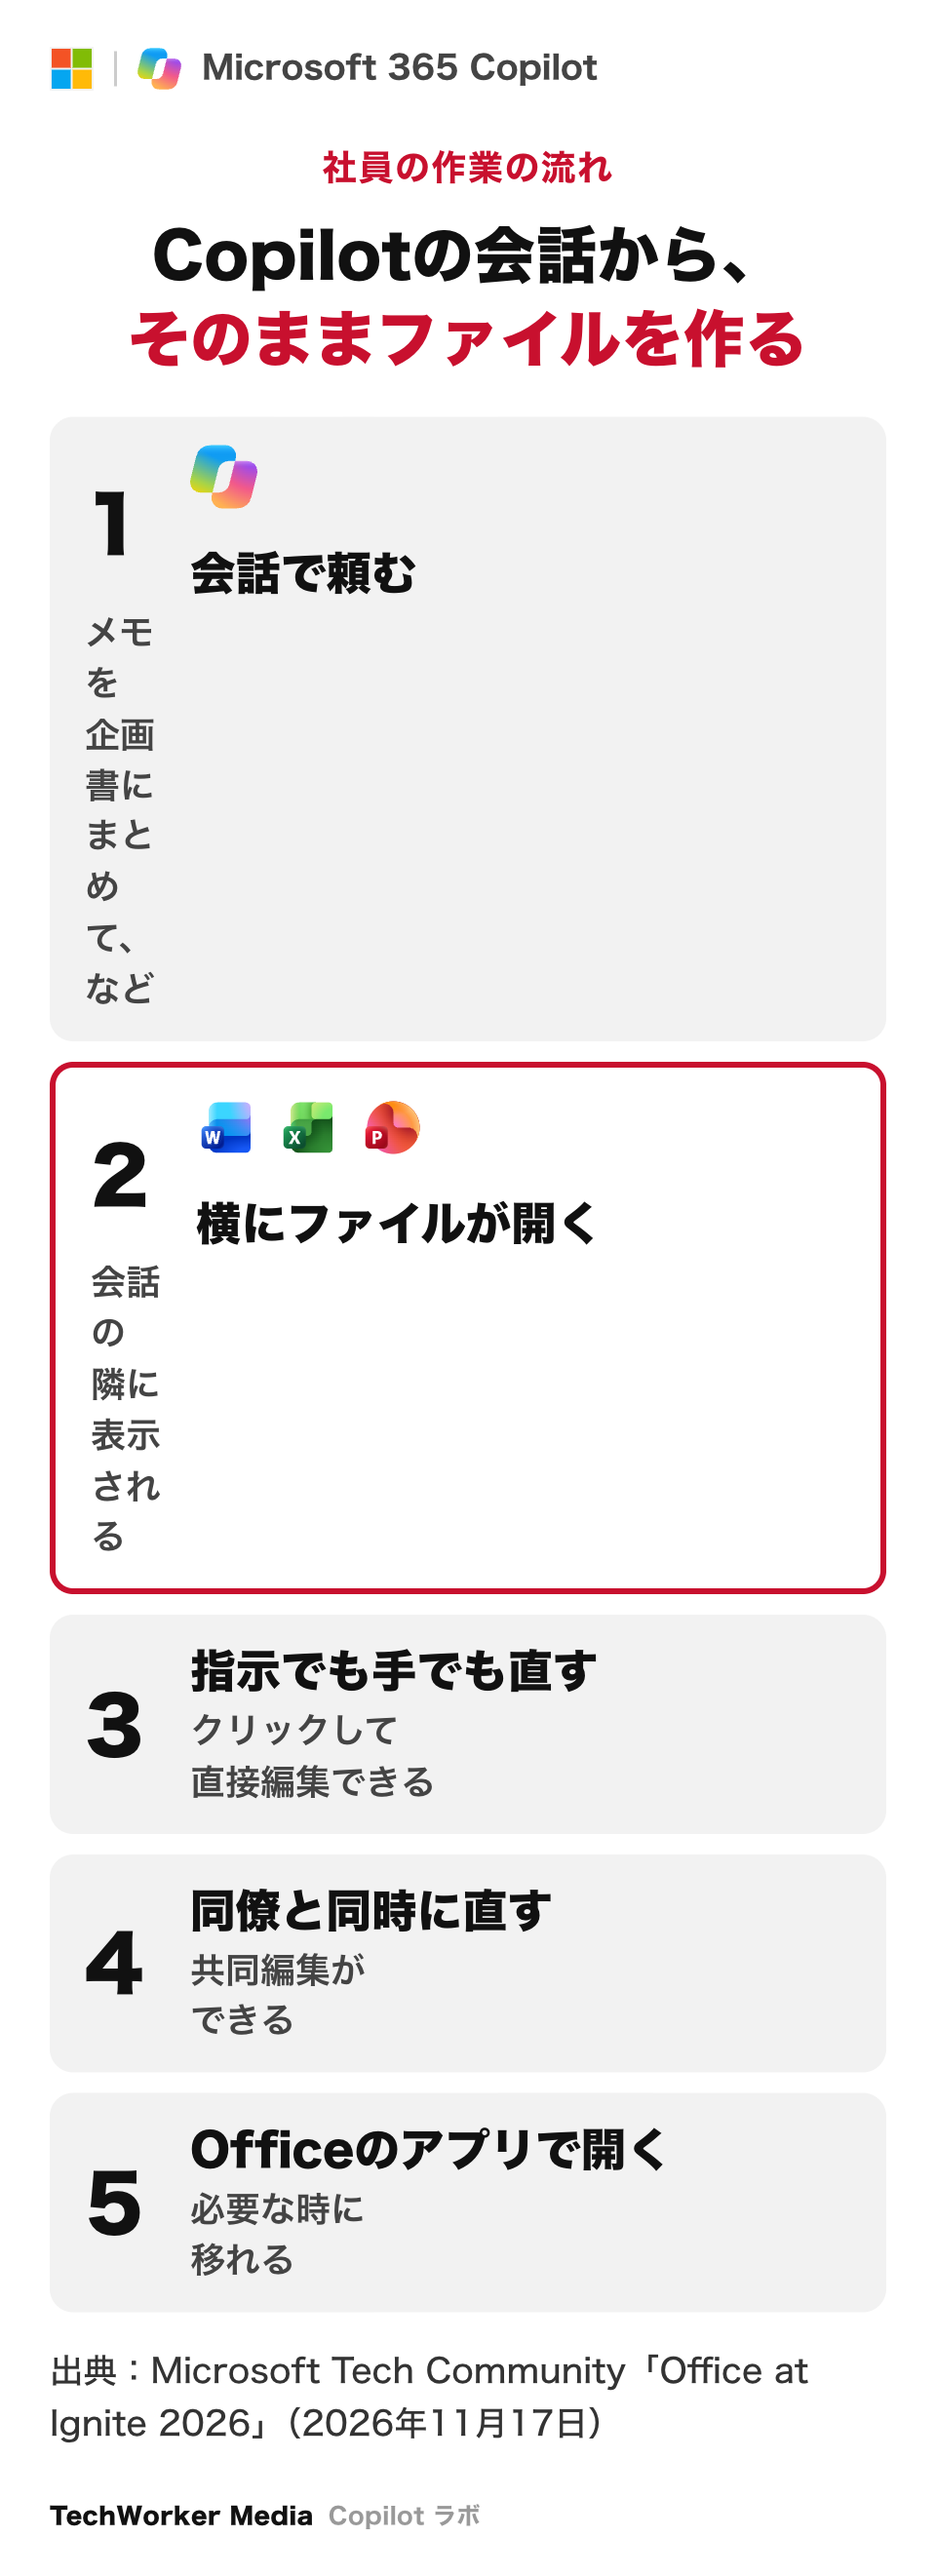
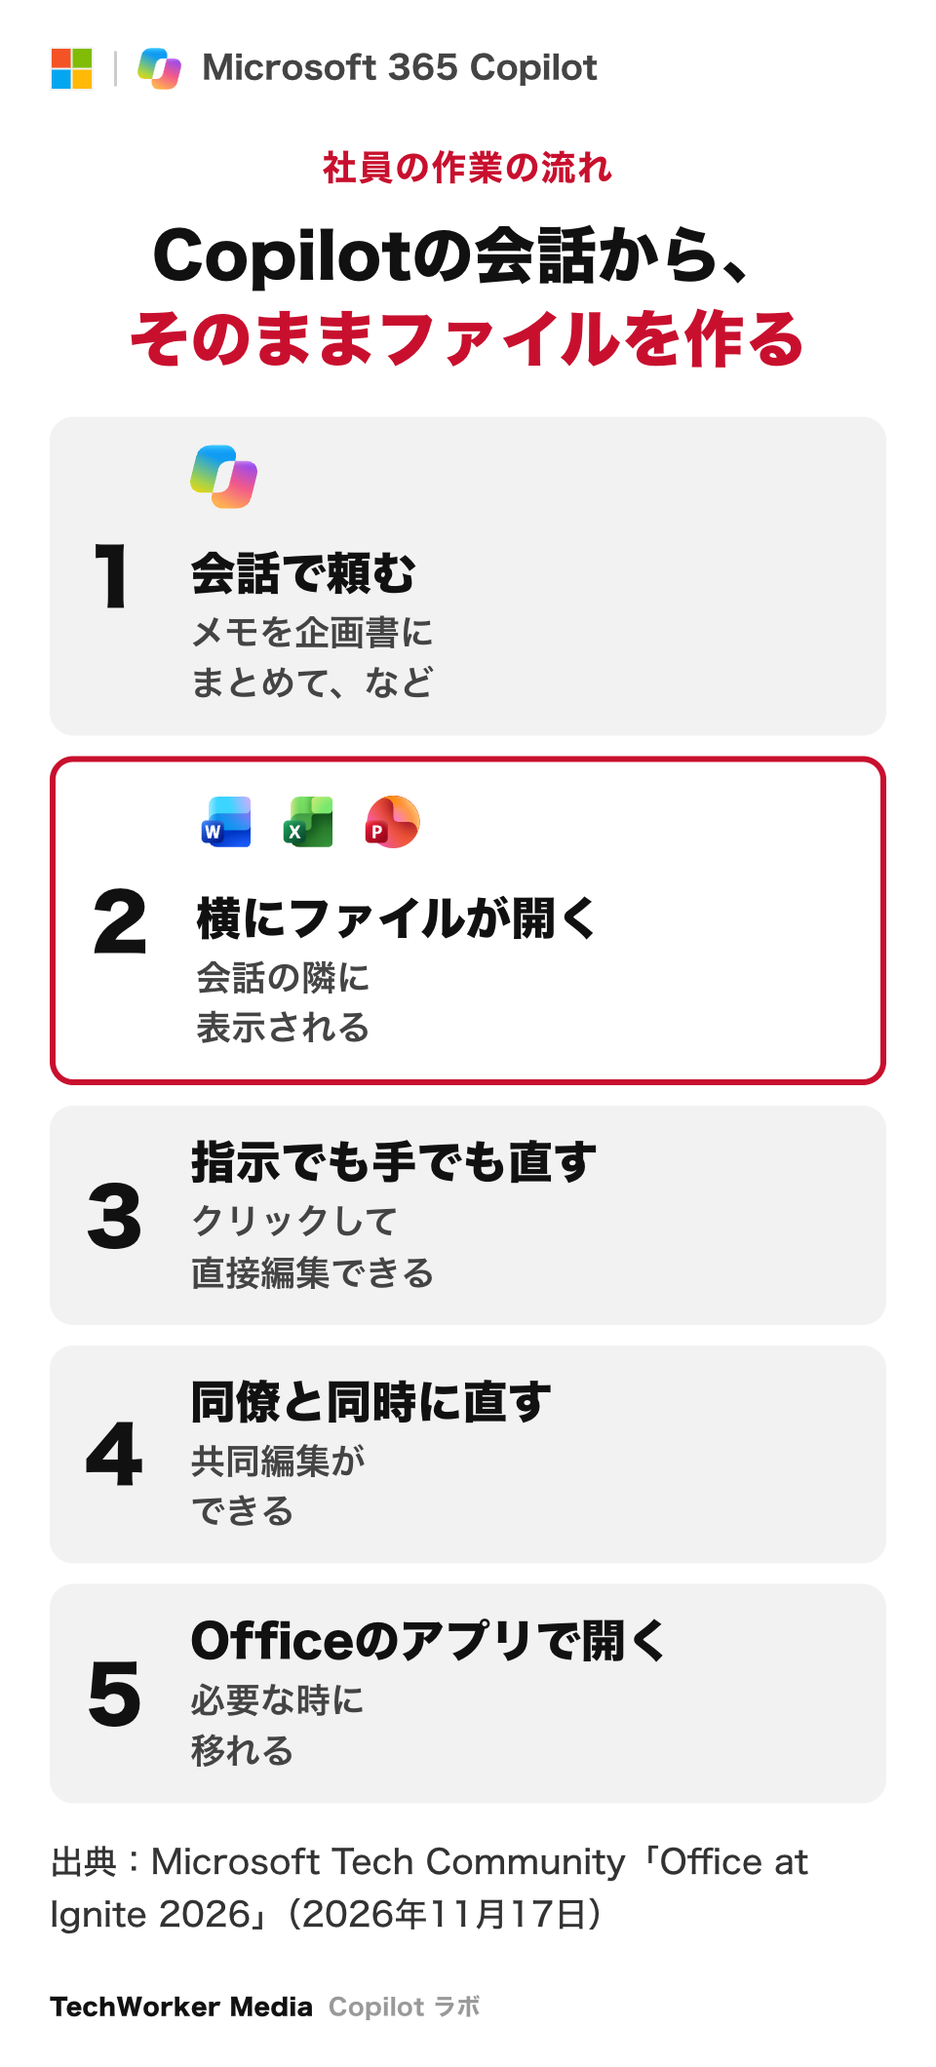
media: Office in Copilot のスマホ用の図1の崩れを直す
ロゴのある箱で説明文が番号の列に落ち、1文字ずつ縦に潰れていた。ロゴを本文の中に入れて描き直した。

diff --git a/media/kenshu/copilot-office-in-copilot.html b/media/kenshu/copilot-office-in-copilot.html
@@ -124,7 +124,7 @@ fbq('init','1264057945446029');fbq('track','PageView');
 
 <h2 id="kawaru">社員の作業はどう変わりますか？</h2>
 <p class="answer">Copilotとの会話から、ファイルを作って仕上げるまでを1つの画面で進められます。細かな作業が要るときは、いつものOfficeのアプリに移れます。</p>
-<figure class="fig-inline"><a href="figs/copilot-office-in-copilot-nagare.png" target="_blank" rel="noopener"><picture><source media="(max-width:640px)" srcset="figs/copilot-office-in-copilot-nagare-m.png?v=1" width="960" height="2642"><img src="figs/copilot-office-in-copilot-nagare.png" alt="社員の作業の流れ。会話で頼む、会話の隣にファイルが開く、指示でも手でも直す、同僚と同時に直す、必要な時にOfficeのアプリで開く、の5段階。2段階目を強調。" width="1920" height="1080" loading="lazy" decoding="async"></picture></a><figcaption><span class="source-label">TechWorker作成：</span>Microsoft Tech Communityの説明を、作業の順に図にしました。画像を押すと拡大できます。</figcaption></figure>
+<figure class="fig-inline"><a href="figs/copilot-office-in-copilot-nagare.png" target="_blank" rel="noopener"><picture><source media="(max-width:640px)" srcset="figs/copilot-office-in-copilot-nagare-m.png?v=2" width="960" height="2120"><img src="figs/copilot-office-in-copilot-nagare.png" alt="社員の作業の流れ。会話で頼む、会話の隣にファイルが開く、指示でも手でも直す、同僚と同時に直す、必要な時にOfficeのアプリで開く、の5段階。2段階目を強調。" width="1920" height="1080" loading="lazy" decoding="async"></picture></a><figcaption><span class="source-label">TechWorker作成：</span>Microsoft Tech Communityの説明を、作業の順に図にしました。画像を押すと拡大できます。</figcaption></figure>
 <p>Microsoftが挙げている使い方は、次の3つです。</p>
 <ul>
 <li><strong>Word：</strong>調べたメモから、発売の企画書を作ります。</li>
